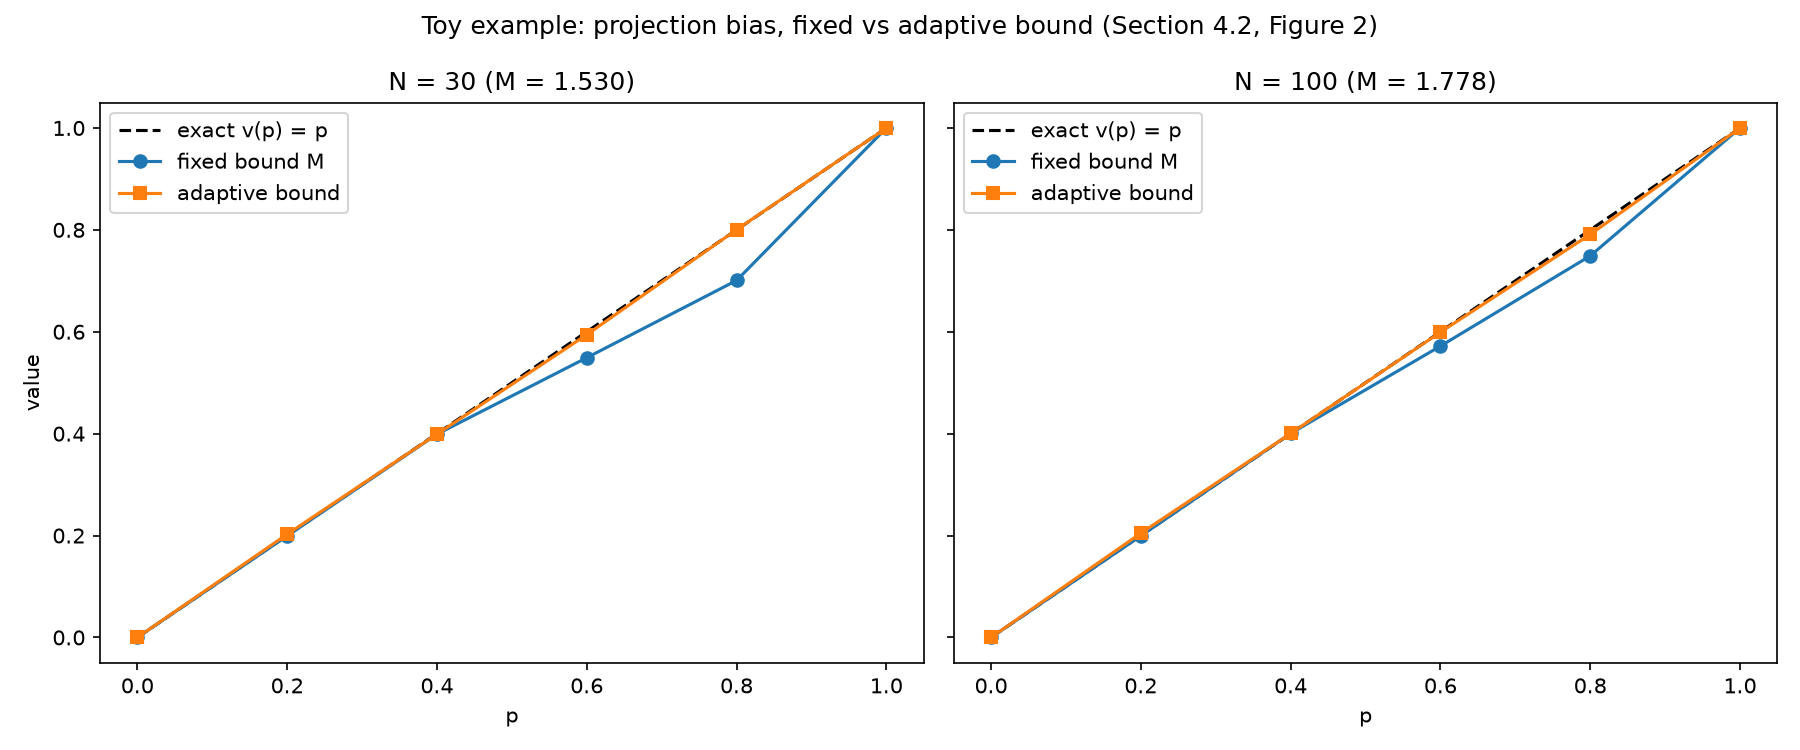
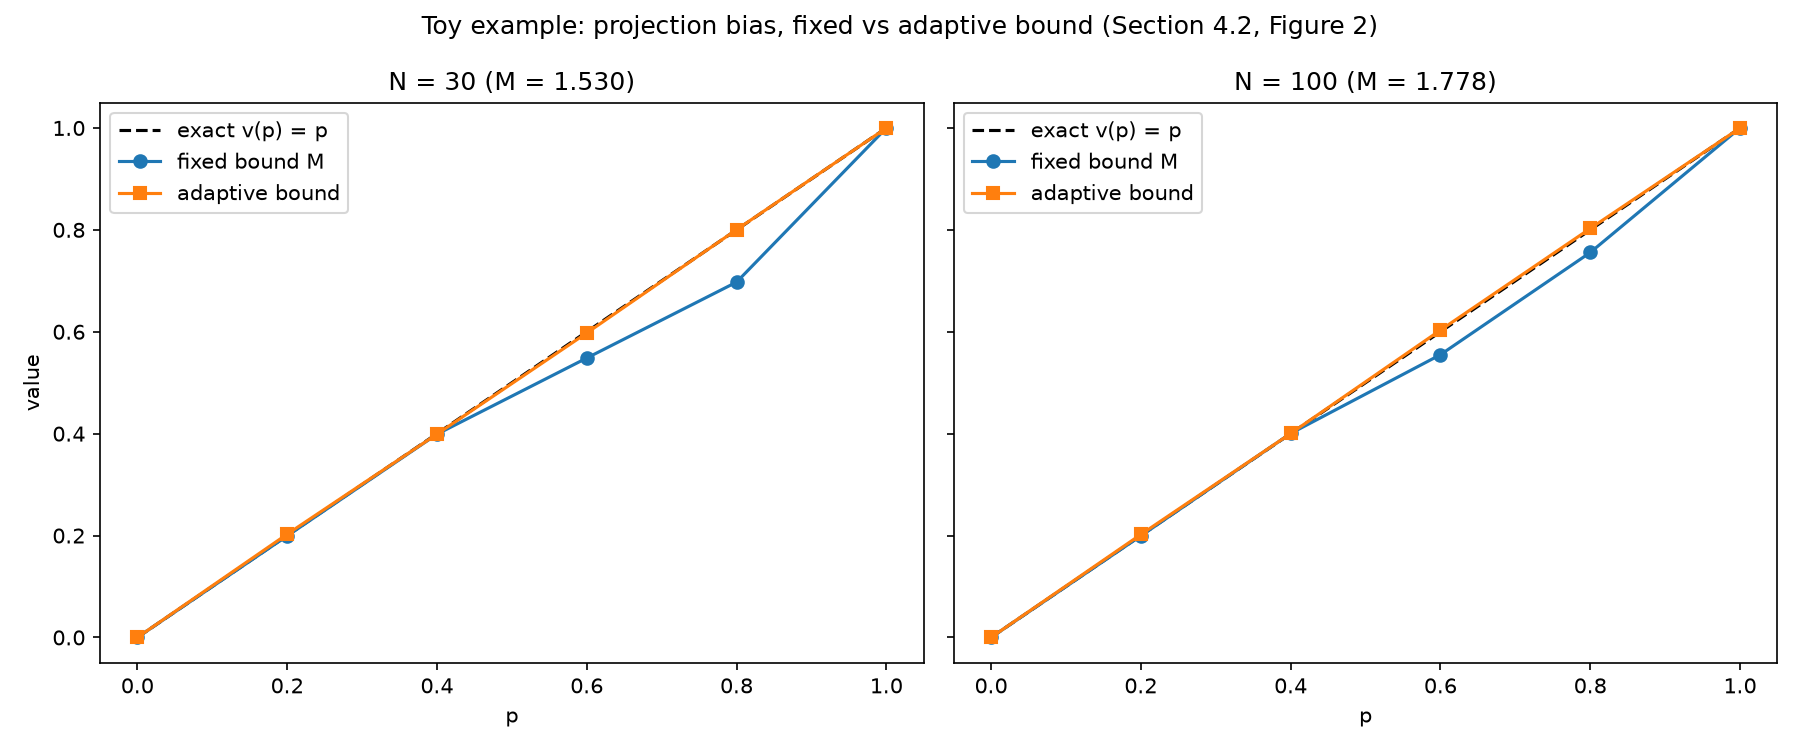
Seed network initialization for reproducible training runs
Add create_shared_control_net() so the hidden-layer weight
initialization (PyTorch's Kaiming-uniform default) is driven by the
same seed as the per-batch data generators, making exp1/exp2/exp3/
exp4/exp5/exp6/exp7 runs fully reproducible from their configured
seed. Refresh exp1 and exp2 result files with the reseeded run.

diff --git a/src/experiments_common.py b/src/experiments_common.py
@@ -14,7 +14,7 @@ import torch
 import src.config as cfg
 from src.evaluation import financial_loss_fn, loglog_fit
 from src.models import ModelSpec
-from src.networks import SharedControlNet
+from src.networks import create_shared_control_net
 from src.reference import quantile_hedging_value
 from src.simulation import simulate_financial
 from src.training import train_control
@@ -41,7 +41,7 @@ def train_single(
 ):
     """Train one network for a given model, control bound and p0 (used
     directly by exp_3/exp_6 and by exp_5's feedback comparison)."""
-    net = SharedControlNet(input_dim=3)
+    net = create_shared_control_net(input_dim=3, seed=seed)
     loss_fn = financial_loss_fn(
         p0, spec.x0, spec.mu, spec.vol_fn, spec.lambda_fn, spec.g_fn,
         N, cfg.BS_T, M, bound_mode, eta_stab, cfg.S_X,
@@ -143,7 +143,7 @@ def run_convergence_study(
         M = N ** (1.0 / 8.0)
         errors, defects = [], []
         for c in range(n_chains):
-            net = SharedControlNet(input_dim=3)
+            net = create_shared_control_net(input_dim=3, seed=seed + 1000 * c + N)
             if chain_states[c] is not None:
                 net.load_state_dict(chain_states[c])
             loss_fn = financial_loss_fn(

diff --git a/src/networks.py b/src/networks.py
@@ -49,6 +49,20 @@ class SharedControlNet(nn.Module):
         return raw.squeeze(-1)
 
 
+def create_shared_control_net(input_dim: int, seed: int, hidden_width: int = HIDDEN_WIDTH) -> SharedControlNet:
+    """Instantiate :class:`SharedControlNet` with a seeded global generator.
+
+    ``nn.Linear``'s default (Kaiming-uniform) initialization of the hidden
+    layers draws from PyTorch's global random generator, which the ``seed``
+    argument of :func:`src.training.train_control` does not touch (it only
+    seeds the per-batch data generators). Seeding the global generator here
+    makes the two hidden layers reproducible from ``seed`` as well, so that a
+    run is fully determined by it.
+    """
+    torch.manual_seed(seed)
+    return SharedControlNet(input_dim=input_dim, hidden_width=hidden_width)
+
+
 def zero_control_state_dict(net: SharedControlNet) -> dict:
     """State dict reproducing the zero control (last layer zeroed)."""
     state = {k: v.clone() for k, v in net.state_dict().items()}

diff --git a/exp/exp1.py b/exp/exp1.py
@@ -14,7 +14,7 @@ from pathlib import Path
 
 import src.config as cfg
 from src.evaluation import toy_loss_fn
-from src.networks import SharedControlNet
+from src.networks import create_shared_control_net
 from src.plotting import plot_exact_vs_estimate
 from src.training import train_control
 
@@ -28,7 +28,7 @@ def run(batch_size: int, val_size: int, test_size: int, validation_frequency: in
         if p in (0.0, 1.0):
             rows.append({"p": p, "exact": p, "estimate": p, "stderr": 0.0, "abs_error": 0.0})
             continue
-        net = SharedControlNet(input_dim=2)
+        net = create_shared_control_net(input_dim=2, seed=seed + i)
         loss_fn = toy_loss_fn(p, cfg.EXP1_N, cfg.EXP1_T, cfg.EXP1_M, "fixed", None)
         res = train_control(
             net, loss_fn,

diff --git a/exp/exp2.py b/exp/exp2.py
@@ -14,7 +14,7 @@ from pathlib import Path
 
 import src.config as cfg
 from src.evaluation import toy_loss_fn
-from src.networks import SharedControlNet
+from src.networks import create_shared_control_net
 from src.plotting import plot_projection_bias
 from src.training import train_control
 
@@ -26,7 +26,7 @@ def _train_one(p: float, N: int, M: float, bound_mode: str, eta_stab,
                 validation_frequency: int, seed: int) -> dict:
     if p in (0.0, 1.0):
         return {"estimate": p, "stderr": 0.0}
-    net = SharedControlNet(input_dim=2)
+    net = create_shared_control_net(input_dim=2, seed=seed)
     loss_fn = toy_loss_fn(p, N, cfg.EXP2_T, M, bound_mode, eta_stab)
     res = train_control(
         net, loss_fn, n_iterations=n_iterations, batch_size=batch_size,

diff --git a/results/RESULTS.md b/results/RESULTS.md
@@ -20,10 +20,10 @@ Setting: g≡1, b≡0, λ≡0, Z≡1, T=1, N=100, M=0.0307 (Proposition 4.1 boun
 | p | exact | estimate | abs. error | verdict |
 |---|---|---|---|---|
 | 0.0 | 0.000 | 0.0000 | 0.0e+00 | reproduced |
-| 0.2 | 0.200 | 0.1999839 | 1.6e-05 | reproduced |
-| 0.4 | 0.400 | 0.3999958 | 4.2e-06 | reproduced |
-| 0.6 | 0.600 | 0.6001273 | 1.3e-04 | reproduced |
-| 0.8 | 0.800 | 0.8000113 | 1.1e-05 | reproduced |
+| 0.2 | 0.200 | 0.1999943 | 5.7e-06 | reproduced |
+| 0.4 | 0.400 | 0.4000259 | 2.6e-05 | reproduced |
+| 0.6 | 0.600 | 0.6000509 | 5.1e-05 | reproduced |
+| 0.8 | 0.800 | 0.8000250 | 2.5e-05 | reproduced |
 | 1.0 | 1.000 | 1.0000 | 0.0e+00 | reproduced |
 
 **Verdict: reproduced.** Every test point matches the exact value v(p)=p to
@@ -40,19 +40,19 @@ N=30 (M=1.530):
 
 | p | exact | fixed | adaptive |
 |---|---|---|---|
-| 0.6 | 0.600 | 0.5491 | 0.5943 |
-| 0.8 | 0.800 | 0.7007 | 0.8003 |
+| 0.6 | 0.600 | 0.5484 | 0.5976 |
+| 0.8 | 0.800 | 0.6974 | 0.8004 |
 
 N=100 (M=1.778):
 
 | p | exact | fixed | adaptive |
 |---|---|---|---|
-| 0.6 | 0.600 | 0.5719 | 0.5993 |
-| 0.8 | 0.800 | 0.7490 | 0.7911 |
+| 0.6 | 0.600 | 0.5550 | 0.6032 |
+| 0.8 | 0.800 | 0.7556 | 0.8027 |
 
 **Verdict: reproduced.** The paper reports, at N=30, fixed≈0.53 and
 adaptive≈0.80 at p=0.8 (Figure 2a); at N=100, fixed≈0.75 and adaptive≈0.80 at
-p=0.8 (Figure 2b). The executed values (0.70/0.80 at N=30, 0.75/0.79 at
+p=0.8 (Figure 2b). The executed values (0.70/0.80 at N=30, 0.76/0.80 at
 N=100) reproduce the qualitative and near-quantitative pattern described in
 Section 4.2: the fixed-bound estimate is biased downward for p>1/2, most
 strongly on the coarser grid N=30, while the adaptive bound keeps the
